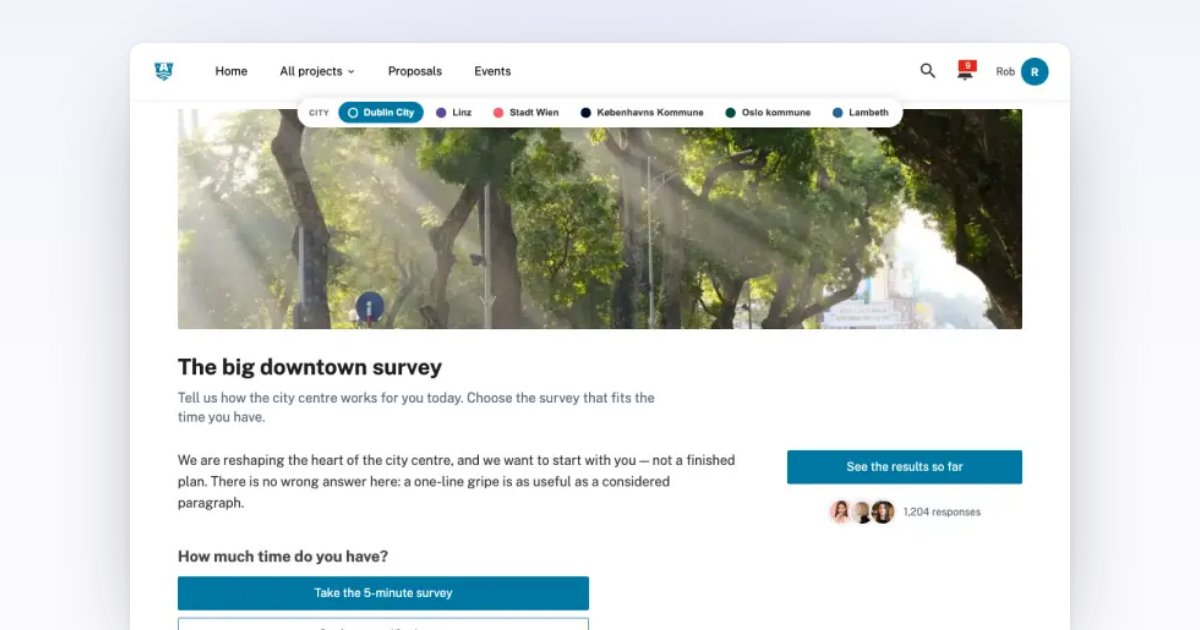
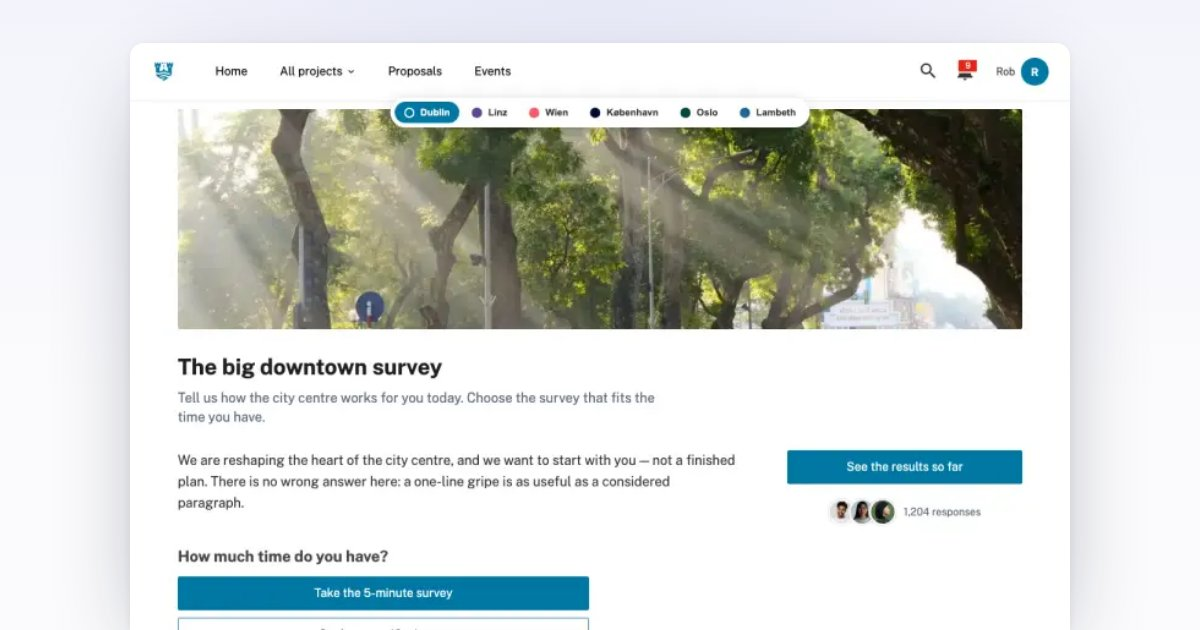
city-explorations: simplify chip labels to plain city names, drop CITY label

Changed region(s): [[0.2467, 0.1508, 0.7708, 0.2111], [0.6783, 0.7841, 0.74, 0.8444]]

diff --git a/parallel-participation/prototypes/city-explorations/index.html b/parallel-participation/prototypes/city-explorations/index.html
@@ -243,7 +243,6 @@
       font-family: var(--gv-font-family, 'Public Sans', system-ui, sans-serif); overflow-x: auto; -webkit-overflow-scrolling: touch; }
     @media (max-width: 760px) { #pv-switch { top: 64px; } }
     #pv-switch::-webkit-scrollbar { display: none; }
-    #pv-switch__label { font-size: 11px; font-weight: 700; letter-spacing: .04em; text-transform: uppercase; color: var(--gv-cool-grey-600,#67768a); padding: 0 8px 0 10px; white-space: nowrap; }
     .pv-chip { display: inline-flex; align-items: center; gap: 8px; border: 0; background: transparent; cursor: pointer; padding: 7px 13px; border-radius: 999px; font-size: 13px; font-weight: 600; color: var(--gv-text-primary,#1c2024); white-space: nowrap; }
     .pv-chip:hover { background: var(--gv-grey-100,#f1f3f5); }
     .pv-chip__sw { width: 14px; height: 14px; border-radius: 50%; flex: none; box-shadow: 0 0 0 1px rgba(0,0,0,.08) inset; }
@@ -353,7 +352,7 @@
 
   const VARIANTS = [
     {
-      key: 'dublin', theme: 1, city: 'Dublin City',
+      key: 'dublin', theme: 1, city: 'Dublin',
       title: 'The big downtown survey',
       subtitle: 'Tell us how the city centre works for you today. Choose the survey that fits the time you have.',
       banner: 'avenue',
@@ -399,7 +398,7 @@
       events: [['Jun', '14', 'Riverside ideas walk', '14 Jun · 10:00 – 11:30', 'Donaupark', '41', 'workshop'], ['Jul', '02', 'Design workshop', '2 Jul · 18:00 – 20:00', 'Civic Hall', '57', 'community']]
     },
     {
-      key: 'wien', theme: 2, city: 'Stadt Wien',
+      key: 'wien', theme: 2, city: 'Wien',
       title: 'Participatory budget 2026',
       subtitle: '€500,000 for the district — and you decide where it goes. Three ways to take part are open at once.',
       banner: 'square',
@@ -424,7 +423,7 @@
       events: [['Jun', '20', 'Budget Q&A evening', '20 Jun · 18:30 – 20:00', 'Rathaus', '88', 'community']]
     },
     {
-      key: 'copenhagen', theme: 3, city: 'Københavns Kommune',
+      key: 'copenhagen', theme: 3, city: 'København',
       title: 'What we heard: the city centre',
       subtitle: '517 ideas, grouped into eight themes. Here is what you told us — and what happens next.',
       banner: 'oldtown',
@@ -446,7 +445,7 @@
       events: [['Jun', '12', 'What-we-heard briefing', '12 Jun · 17:00 – 18:00', 'Online meeting', '64', 'workshop'], ['Jun', '19', 'Walk the centre with us', '19 Jun · 16:00 – 17:30', 'Rådhuspladsen', '52', 'oldtown'], ['Jun', '26', 'Theme drop-in session', '26 Jun · 17:00 – 19:00', 'Hovedbiblioteket', '38', 'community']]
     },
     {
-      key: 'oslo', theme: 5, city: 'Oslo kommune',
+      key: 'oslo', theme: 5, city: 'Oslo',
       title: 'A safer school run',
       subtitle: 'Written in plain words, with big text and one clear button — so every family can take part.',
       banner: 'street-trees',
@@ -740,7 +739,7 @@
     wrap.id = 'pv-switch';
     wrap.setAttribute('role', 'tablist');
     wrap.setAttribute('aria-label', 'City exploration');
-    let html = '<span id="pv-switch__label">City</span>';
+    let html = '';
     VARIANTS.forEach((v, i) => {
       const t = themes.find((x) => x.id === v.theme) || {};
       v._primary = t.primary || '#444';
